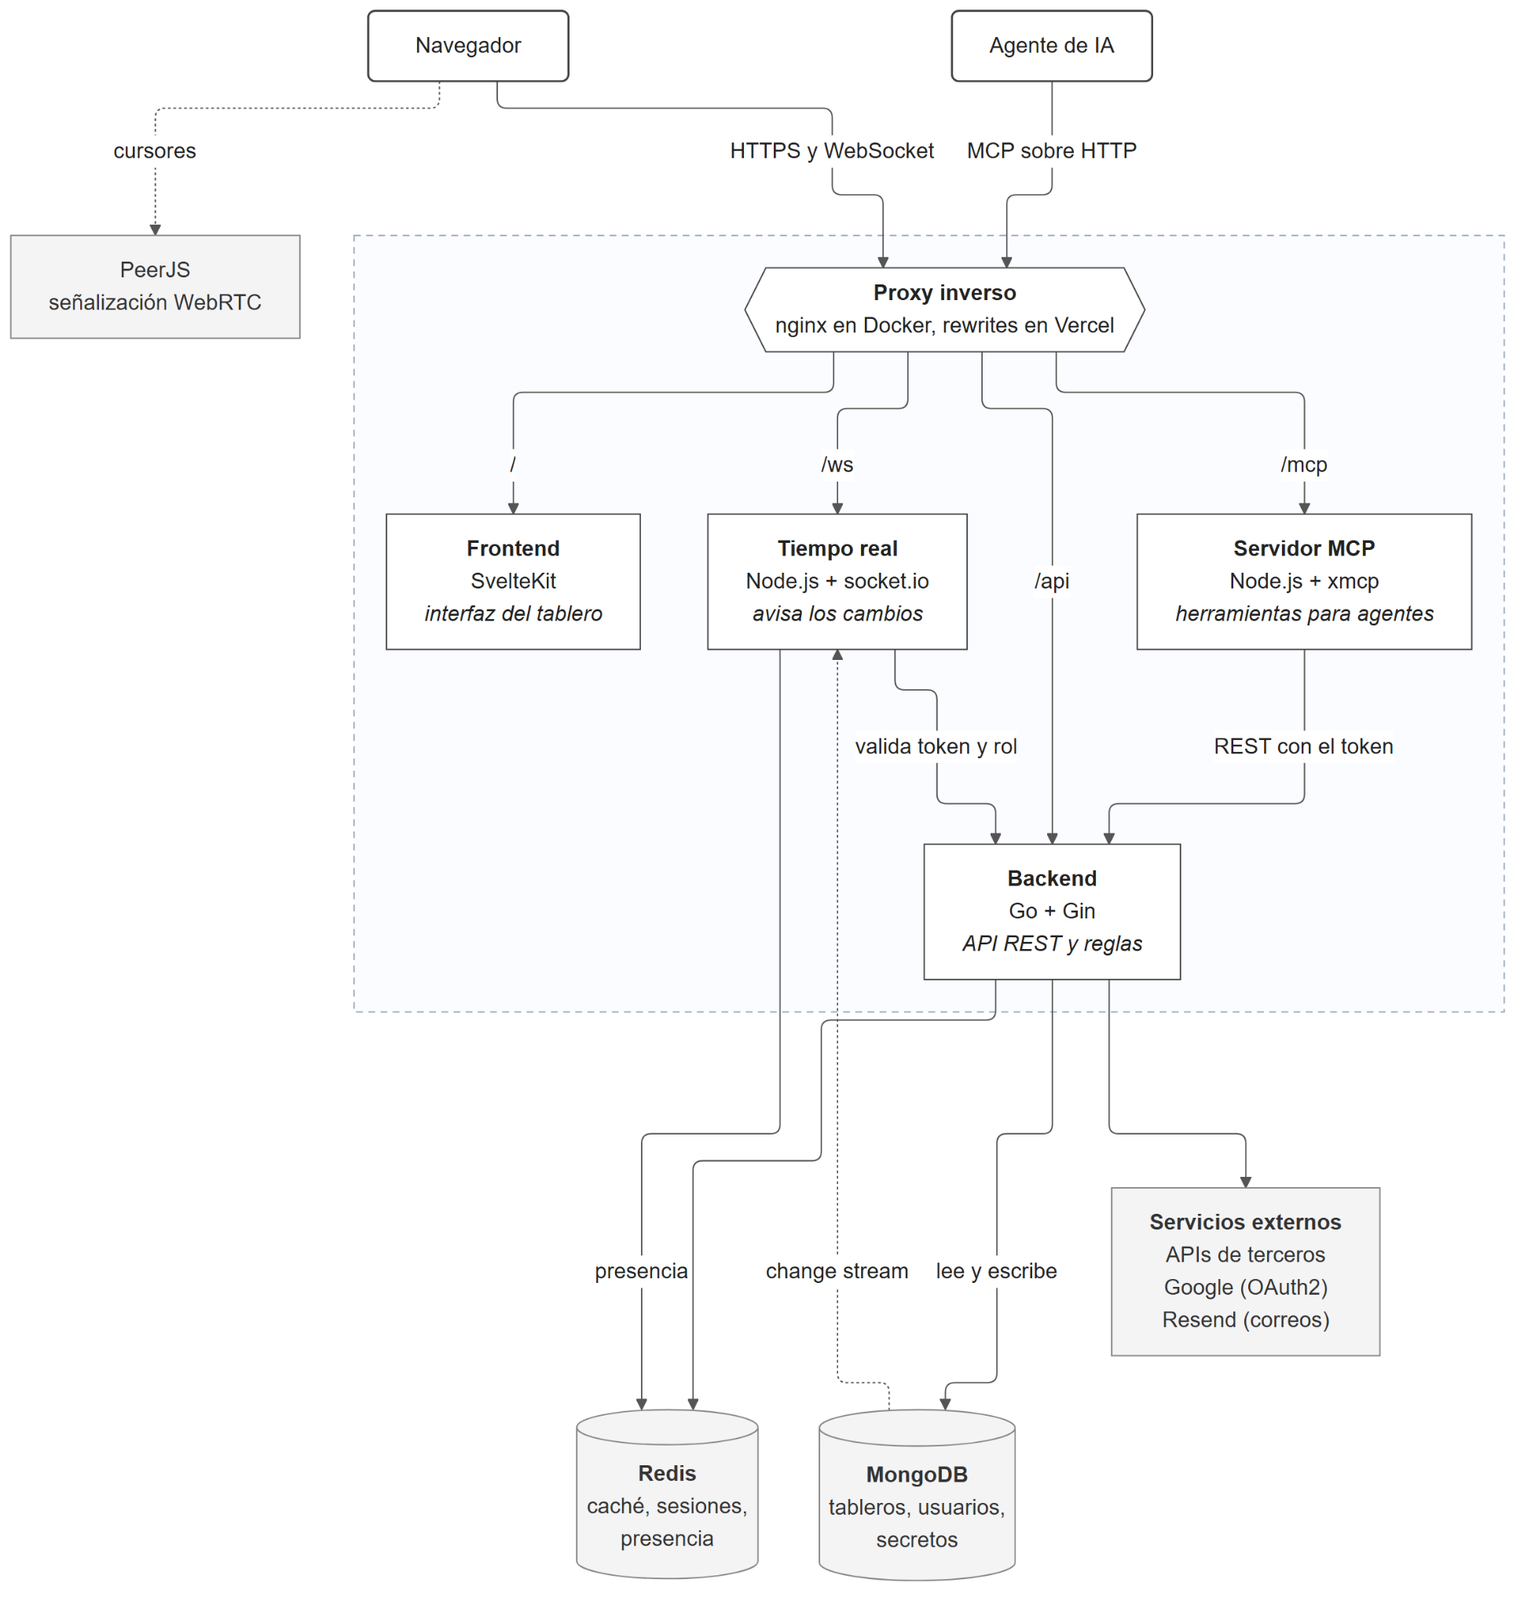
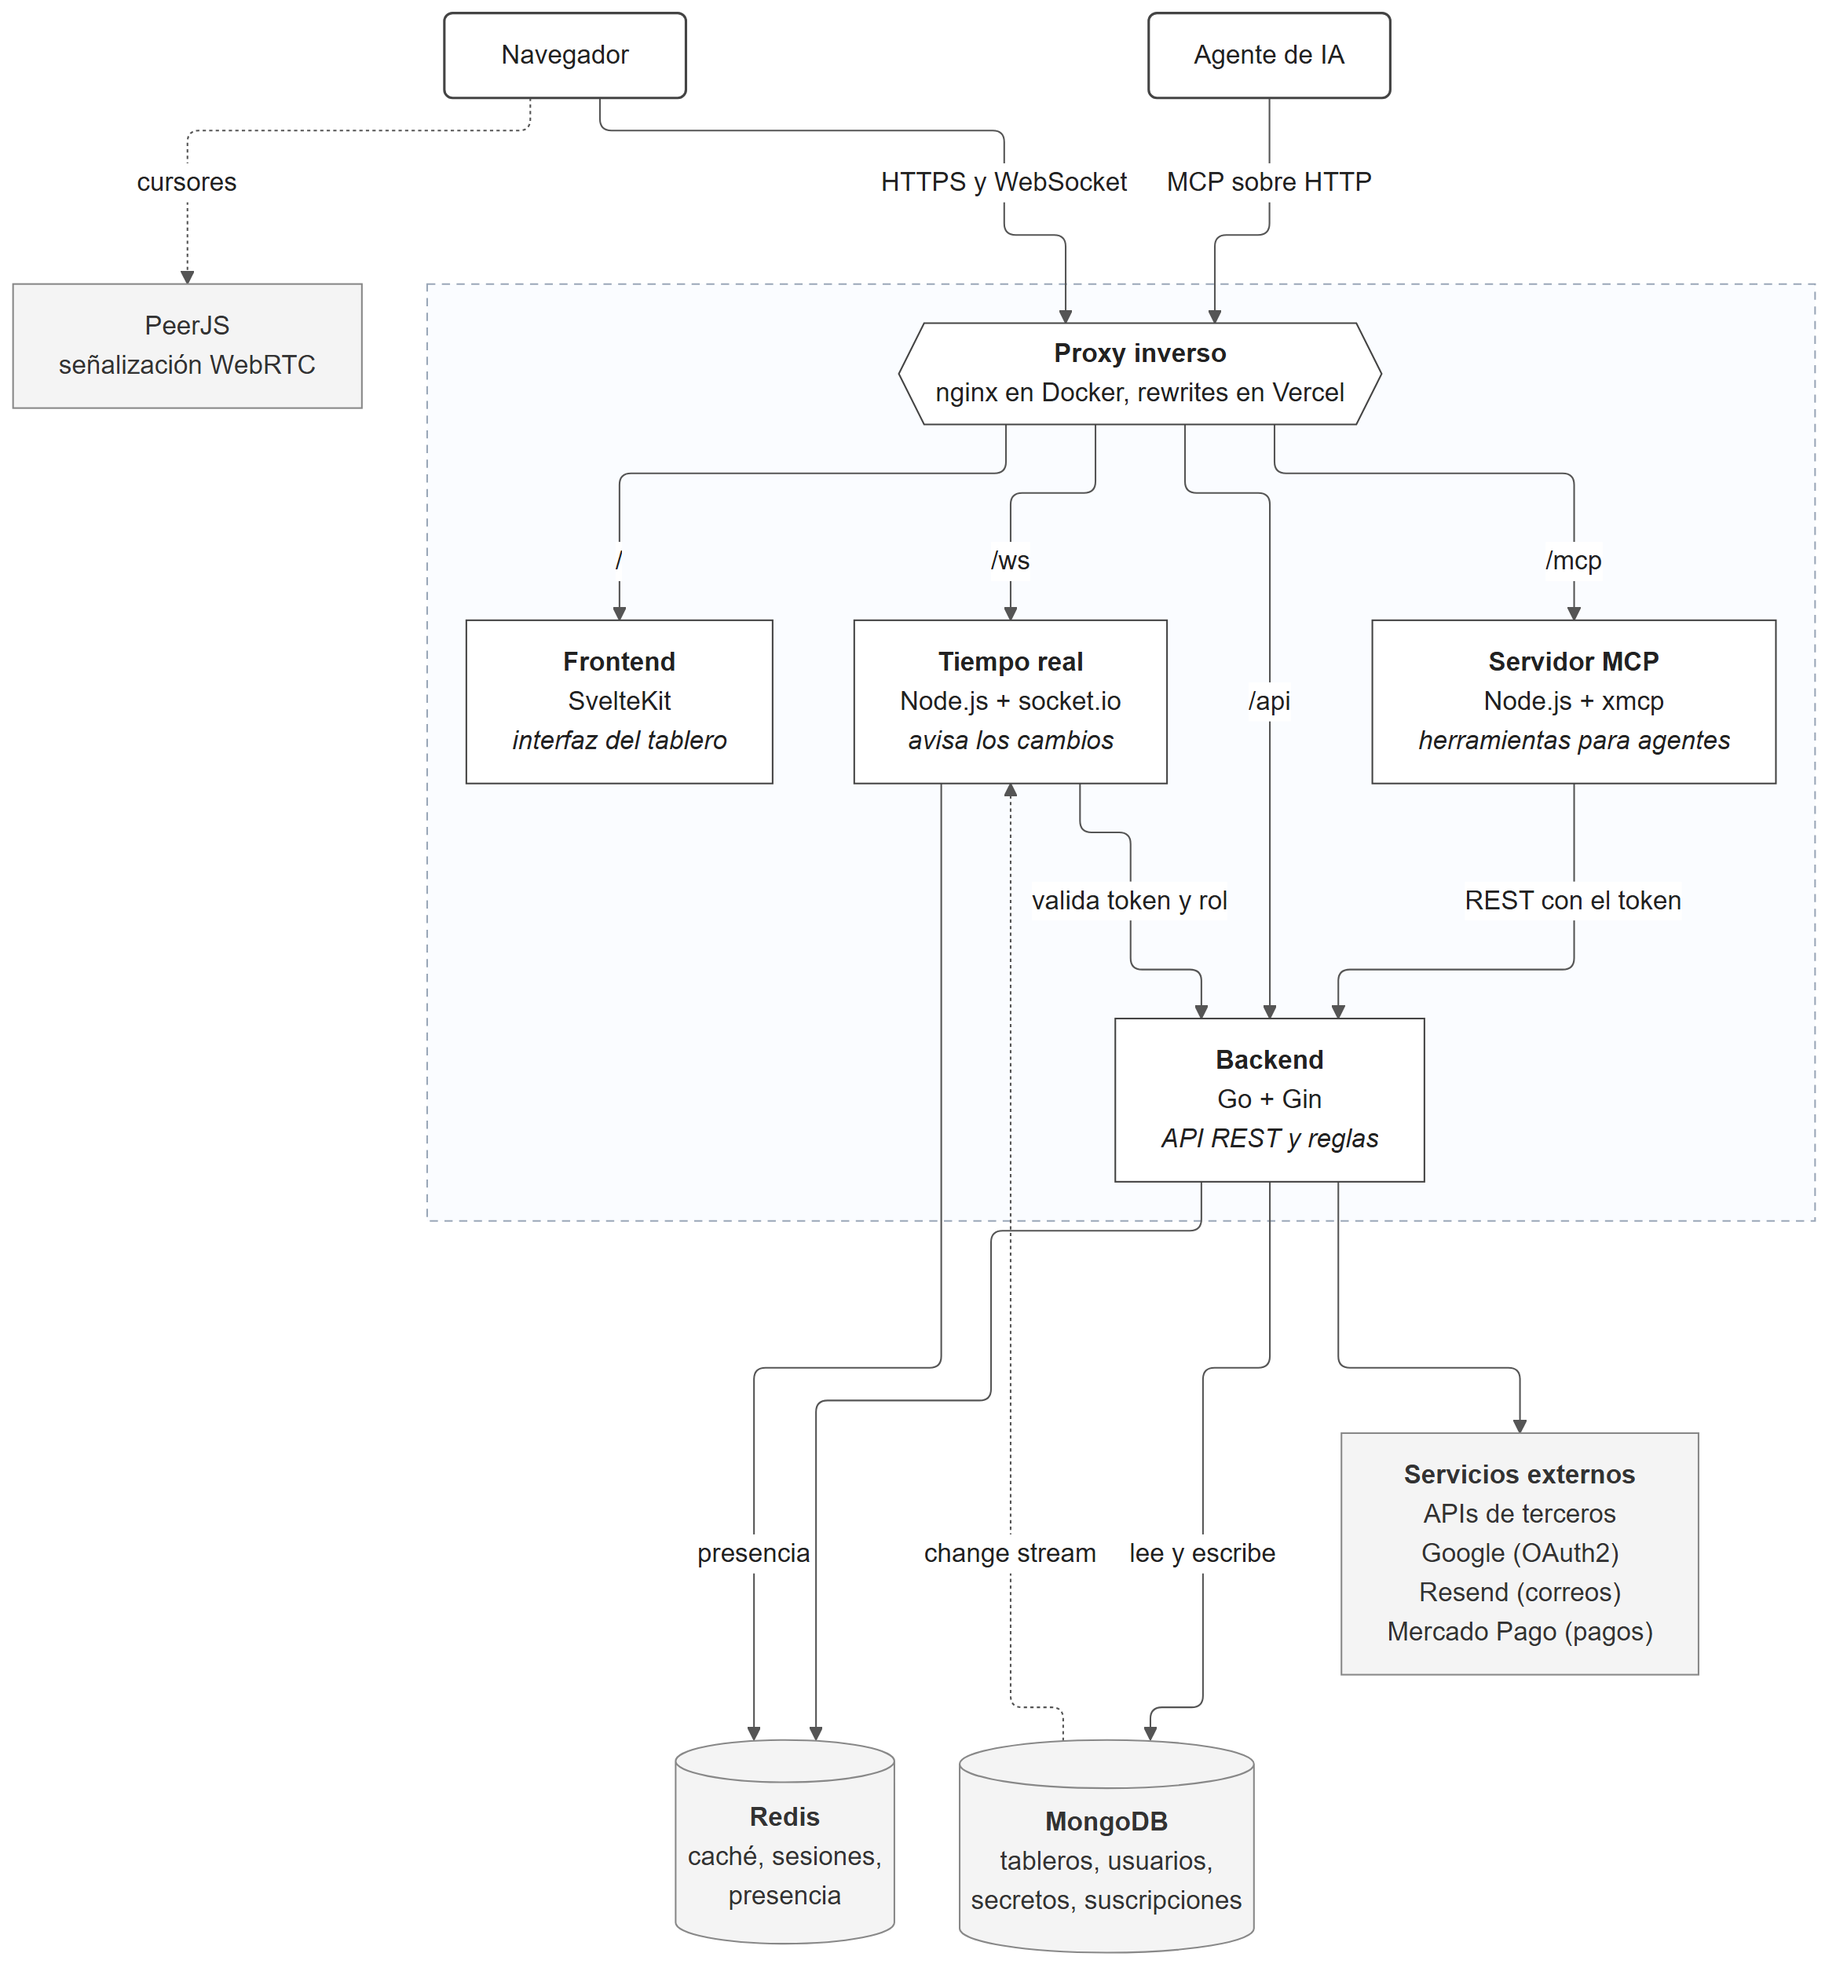
figuras

diff --git a/docs/capitulos/06_diseno_bajo_nivel.tex b/docs/capitulos/06_diseno_bajo_nivel.tex
@@ -297,6 +297,17 @@ El servicio \texttt{entitlements} resuelve, para cada recurso, quién lo paga: u
 
 El cobro se realiza mediante suscripciones mensuales de Mercado Pago, con un precio en pesos calculado a partir del precio en dólares de cada plan. Al suscribirse, el backend crea la suscripción y devuelve la URL del checkout del proveedor, que al finalizar redirige al frontend para sincronizarla. Cada cambio posterior llega por un webhook cuya firma HMAC se verifica, y el backend nunca confía en su contenido: ante cada notificación vuelve a leer la suscripción desde Mercado Pago. El plan queda vigente hasta cinco días después del próximo pago esperado, por lo que una suscripción cancelada o impaga vuelve sola al plan gratuito. Subir de plan se aplica de inmediato, mientras que bajarlo se aplica con la siguiente factura pagada.
 
+Las clases que intervienen se muestran en la Figura~\ref{fig:clases_billing}. \texttt{EntitlementsService} implementa el puerto \texttt{Entitlements} que consultan los demás servicios, y para ello lee usuarios, organizaciones, tableros y grupos, y obtiene del puerto \texttt{Counter} los conteos de cada límite. \texttt{BillingService} depende del puerto \texttt{PaymentGateway}, implementado por el adaptador \texttt{Gateway} sobre el SDK de Mercado Pago, y de \texttt{SubscriptionStore} para guardar el estado conocido de cada suscripción.
+
+\begin{figure}[H]
+  \centering
+  \includegraphics[width=0.85\textwidth]{figuras/fig41.png}
+  \caption{Diagrama de clases de planes y facturación}
+  \label{fig:clases_billing}
+\end{figure}
+
+Los endpoints de este componente se resumen en la Tabla~\ref{tab:endpoints_billing}.
+
 \begin{tablaendpoints}{Endpoints de Billing}{tab:endpoints_billing}
   GET & /billing/plans & Listar los planes con sus límites y precios (público). \\
   POST & /billing/webhook & Recibir las notificaciones de Mercado Pago (público, con firma). \\

diff --git a/docs/capitulos/05_diseno_alto_nivel.tex b/docs/capitulos/05_diseno_alto_nivel.tex
@@ -377,7 +377,14 @@ La Figura~\ref{fig:modelo_boveda} muestra el área de la bóveda, en la cual cad
 \end{figure}
 
 \subsection{Planes y suscripciones}
-Por último, cada usuario tiene un plan (\texttt{free}, \texttt{pro} o \texttt{max}) con una fecha de vencimiento opcional, y puede tener suscripciones de Mercado Pago que lo mantienen vigente. Los límites de cada plan forman una única tabla (\texttt{Limits}). Cada recurso limitado se factura a un usuario: un tablero a su dueño o al pagador de su organización (\texttt{Org.owner}), y un secreto al usuario indicado en \texttt{billed\_to}. La combinación de pagador, plan y límites que aplica a un recurso se representa con \texttt{Entitlement}.
+Por último, cada usuario tiene un plan (\texttt{free}, \texttt{pro} o \texttt{max}) con una fecha de vencimiento opcional, y puede tener suscripciones de Mercado Pago que lo mantienen vigente. Los límites de cada plan forman una única tabla (\texttt{Limits}). Cada recurso limitado se factura a un usuario: un tablero a su dueño o al pagador de su organización (\texttt{Org.owner}), y un secreto al usuario indicado en \texttt{billed\_to}. La combinación de pagador, plan y límites que aplica a un recurso se representa con \texttt{Entitlement}. La Figura~\ref{fig:modelo_planes} muestra estas relaciones.
+
+\begin{figure}[H]
+  \centering
+  \includegraphics[width=\textwidth]{figuras/fig40.png}
+  \caption{Modelo de planes y suscripciones}
+  \label{fig:modelo_planes}
+\end{figure}
 
 \section{Descripción de sistemas, servicios y plataformas}
 A continuación se describe cada componente del sistema, su stack tecnológico, su responsabilidad y la justificación de la elección. Los componentes marcados como planificados forman parte del alcance del proyecto pero no están implementados en el incremento actual.
